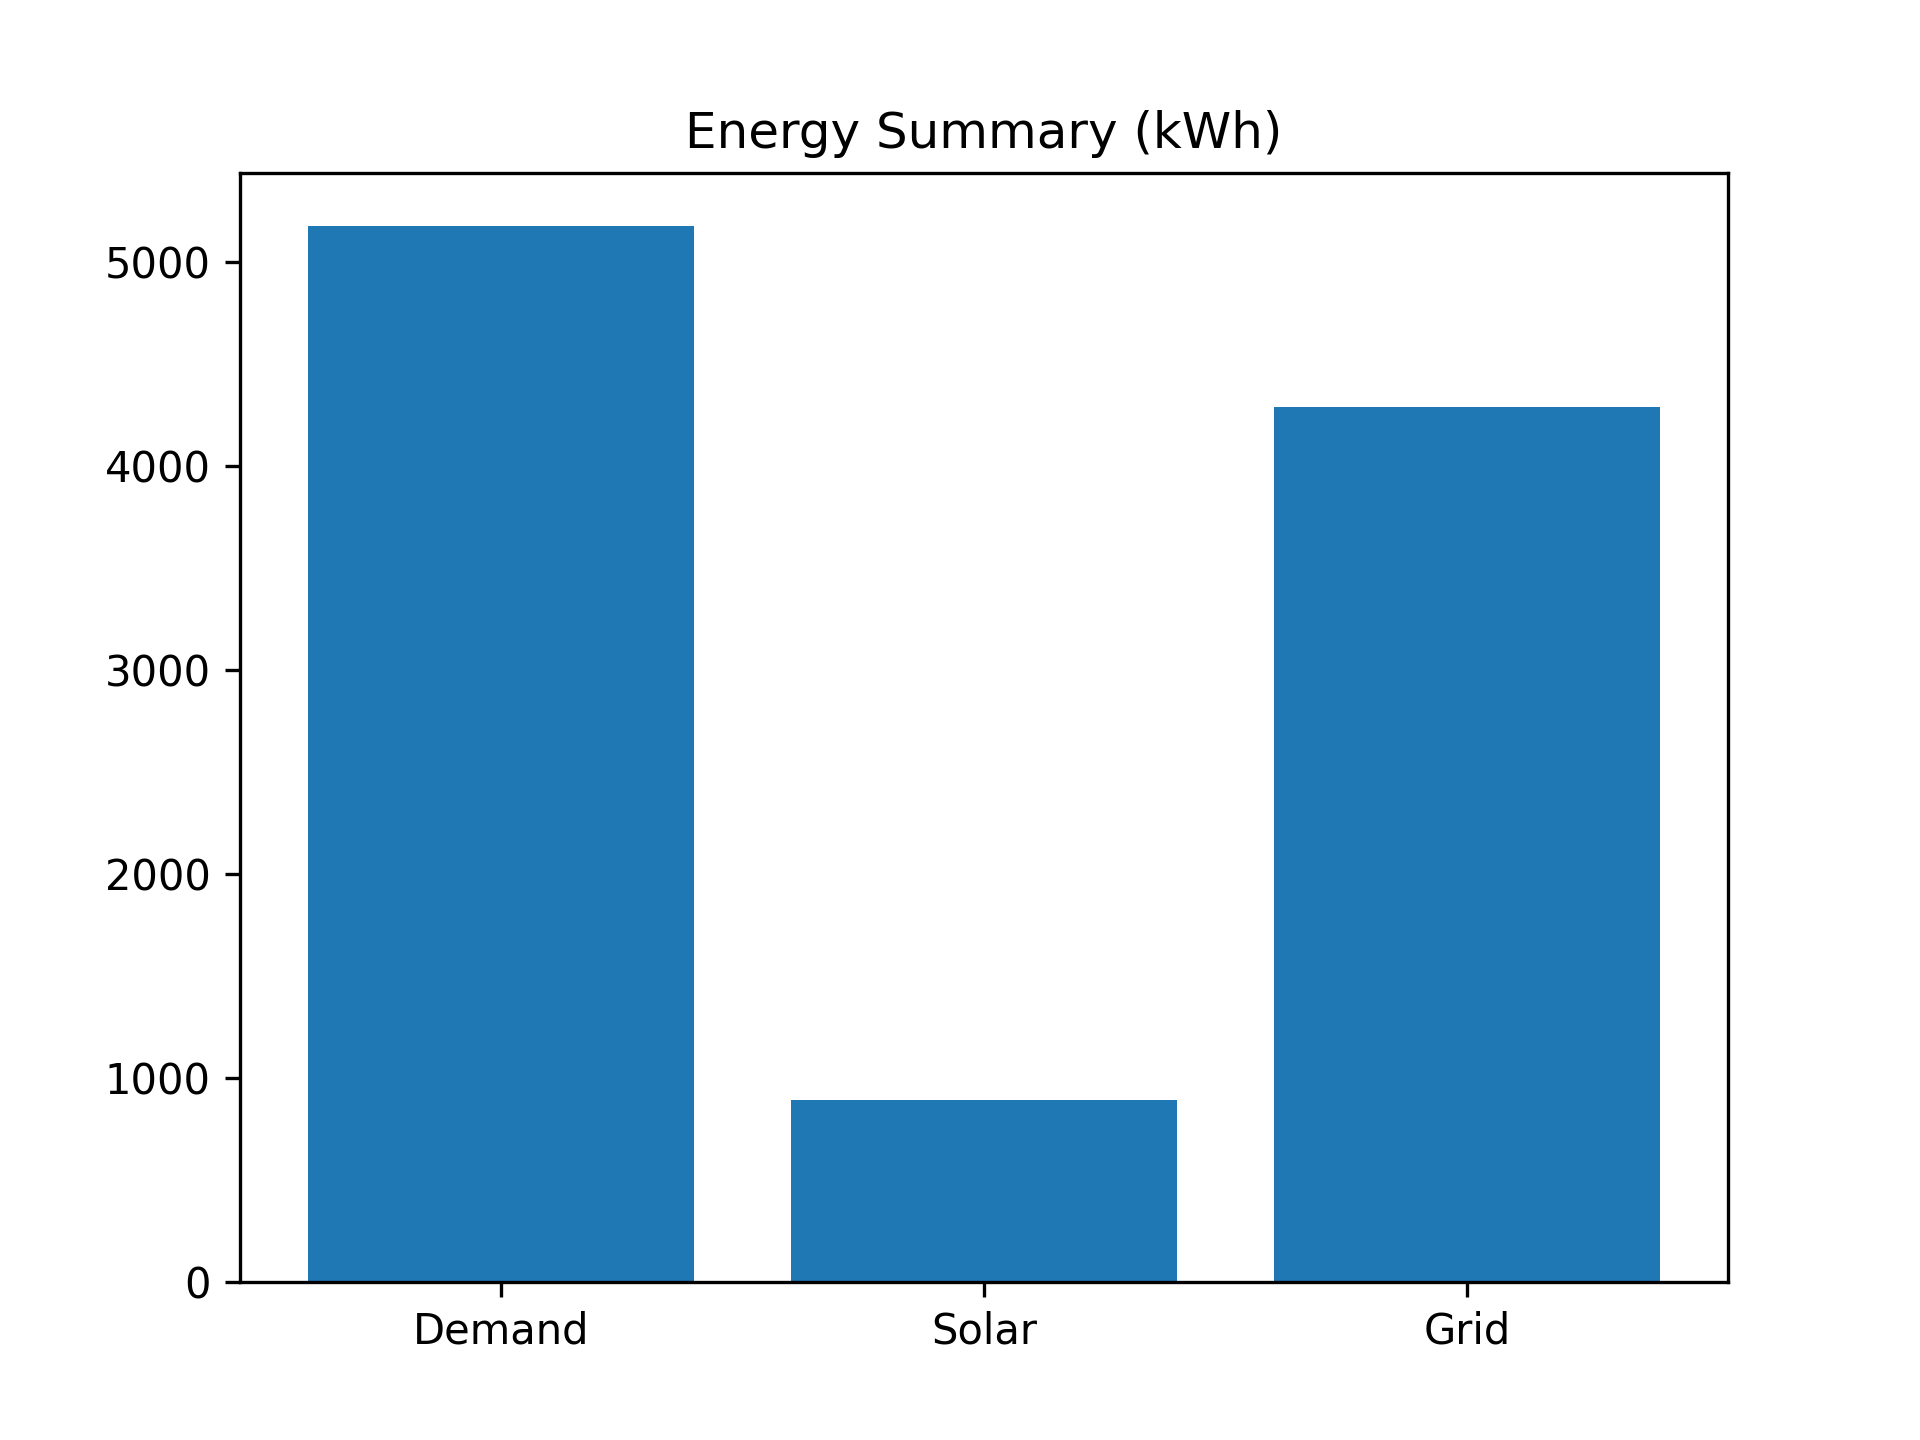
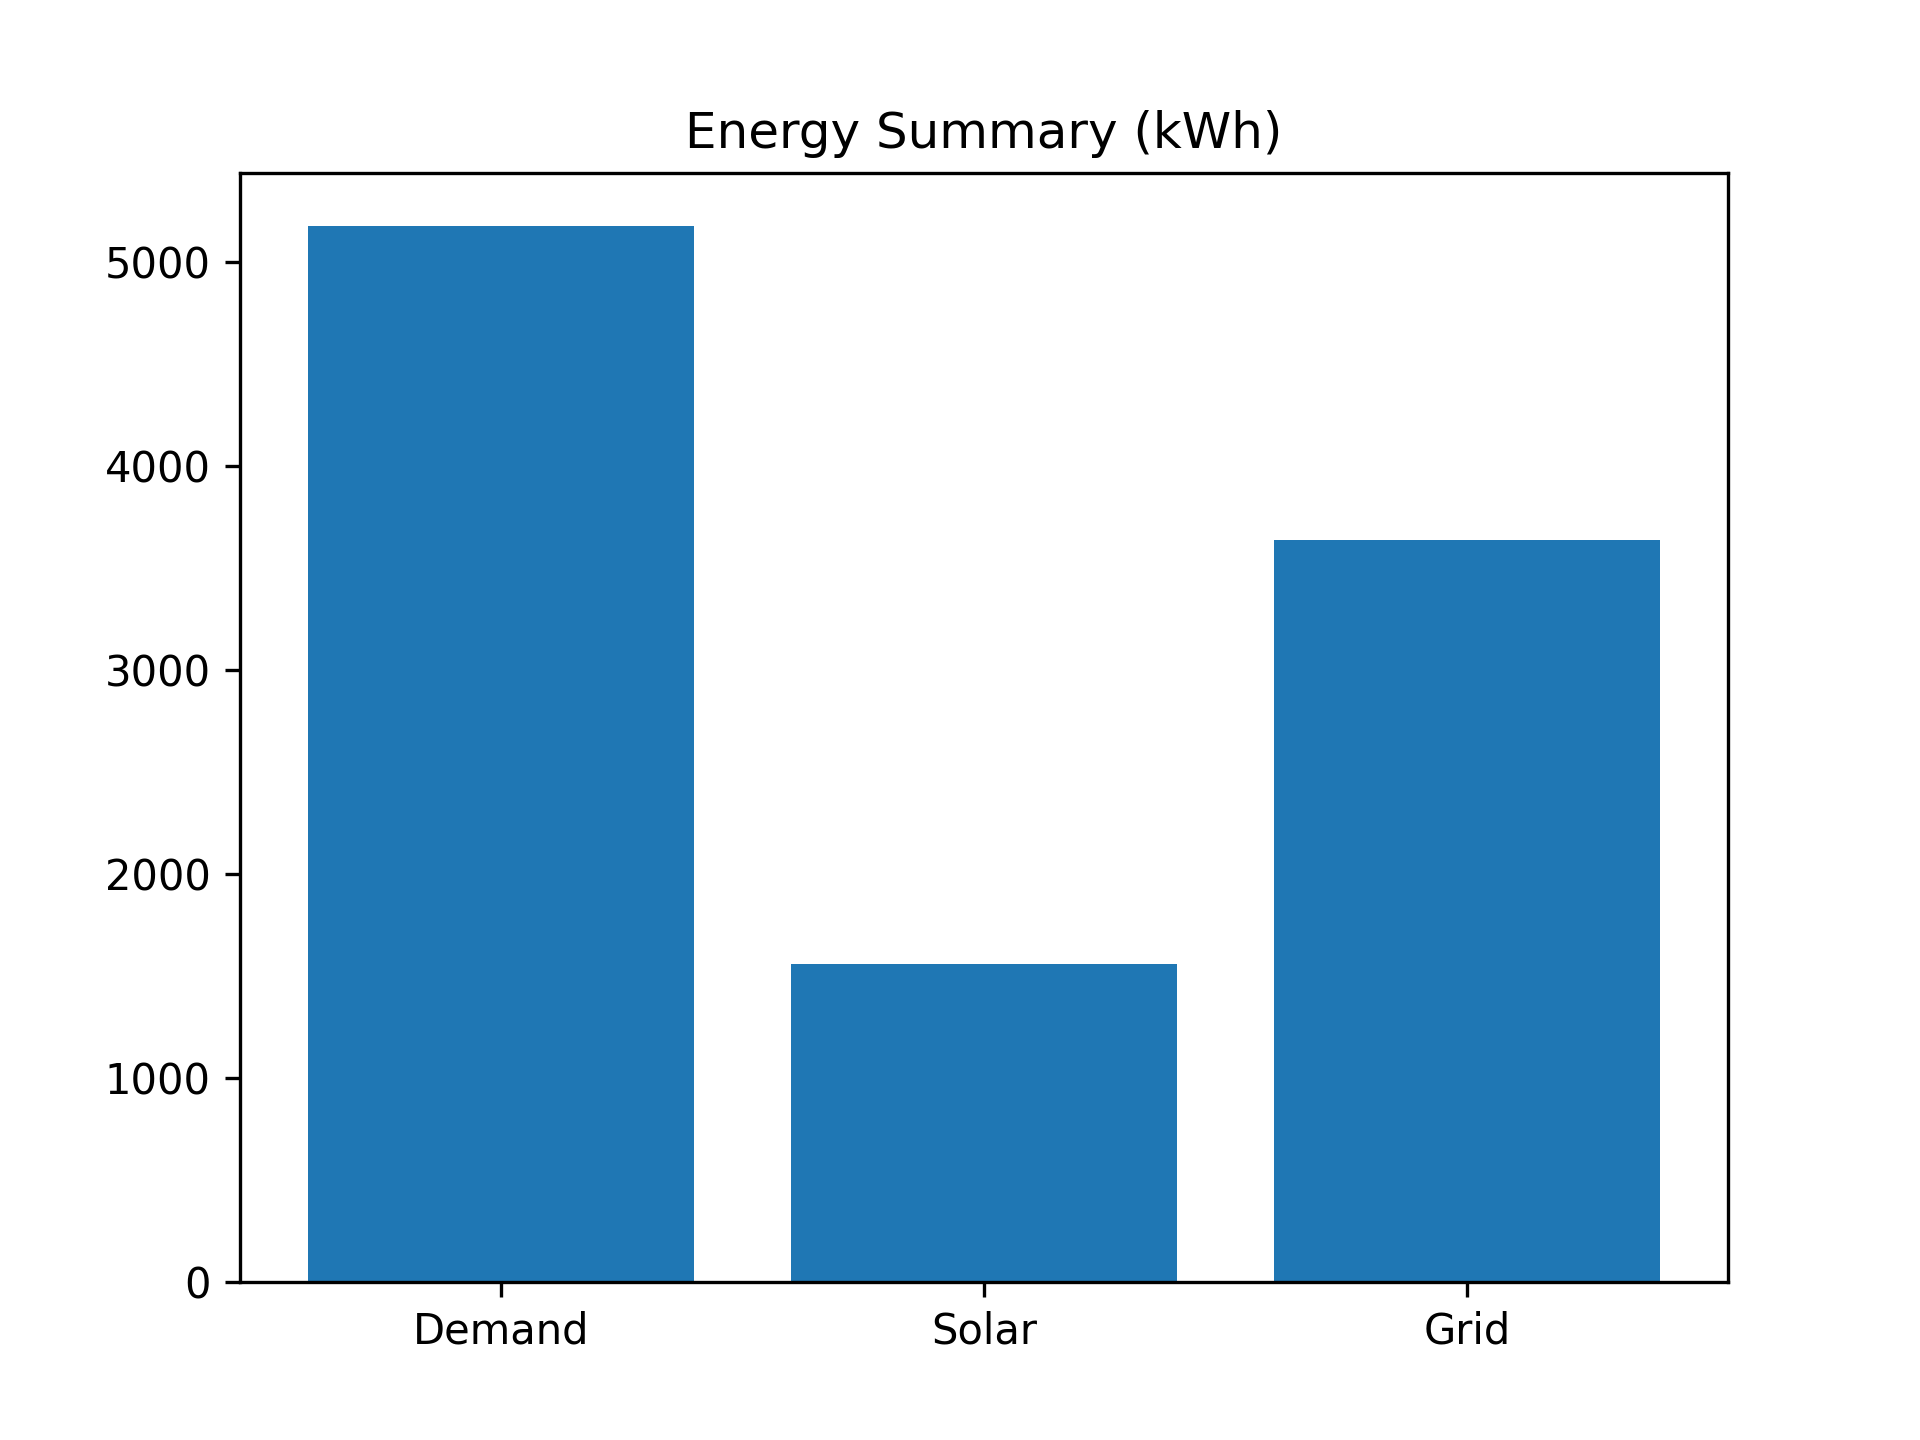
Changes to simulation.py

Changed region(s): [[0.4062, 0.6562, 0.625, 0.7812], [0.6562, 0.2812, 0.875, 0.375]]

diff --git a/simulation.py b/simulation.py
@@ -2,7 +2,7 @@ import numpy as np
 import pandas as pd
 import matplotlib.pyplot as plt
 
-# Load predictions
+
 df = pd.read_csv("predictions.csv", parse_dates=["Datetime"])
 df = df.sort_values("Datetime").reset_index(drop=True)
 
@@ -10,35 +10,24 @@ time = df["Datetime"]
 demand = df["y_pred"].values
 hours = time.dt.hour.values
 
-# Solar bell-curve model
 solar = np.zeros(len(df))
 
-panel_efficiency = 0.20
+panel_efficiency = 0.70
 cloud_variation = 0.3
 peak_irradiance = 1.0
 
-base_peak = 0.8 * demand.max()
-
-# peak solar output (tune this)
-# peak_solar = 0.2 * demand.max()
+base_peak = 0.4 * demand.max()
 
 for i, h in enumerate(hours):
     if 6 <= h <= 18:
         x = (h - 12) / 3.0
         irradiance = np.exp(-0.5 * x**2)
-        # Random cloud factor
         cloud_factor = 1 - np.random.uniform(0, cloud_variation)
         solar[i] = base_peak * irradiance * panel_efficiency * cloud_factor
-        # x = (h - 12) / 3.0     # noon peak
-        # solar[i] = peak_solar * np.exp(-0.5 * x**2)
 
-# Battery simulation
-
-battery_capacity = 5.0   # kWh
+battery_capacity = 5.0
 battery_max_power = 2.0
 round_trip_eff = 0.90
-# soc = battery_capacity / 2   # initial state of charge
-
 charge_eff = np.sqrt(round_trip_eff)
 discharge_eff = np.sqrt(round_trip_eff)
 
@@ -52,7 +41,6 @@ for i in range(len(df)):
 
     surplus = solar[i] - demand[i]
 
-    # Excess solar -> charge battery
     if surplus > 0:
         charge = min(surplus,
                      battery_max_power,
@@ -62,12 +50,6 @@ for i in range(len(df)):
         battery_flow[i] = -charge
         grid[i] = 0
 
-        # charge = min(surplus, battery_capacity - soc)
-        # soc += charge
-        # battery_flow[i] = -charge
-        # grid[i] = 0
-
-    # Deficit -> discharge battery then grid
     else:
         need = -surplus
 
@@ -78,11 +60,6 @@ for i in range(len(df)):
         soc -= discharge
         battery_flow[i] = discharge * discharge_eff
         grid[i] = need - discharge * discharge_eff
-        # need = -surplus
-        # discharge = min(need, soc)
-        # soc -= discharge
-        # battery_flow[i] = discharge
-        # grid[i] = need - discharge
     soc_history[i] = soc
 
 
@@ -92,54 +69,6 @@ from pathlib import Path
 OUTPUT_DIR = Path("outputs")
 OUTPUT_DIR.mkdir(parents=True, exist_ok=True)
 
-
-# ----------------------------
-# PLOTS (3 separate figures)
-# ----------------------------
-
-# plt.figure()
-# plt.plot(time, demand)
-# plt.title("Predicted Demand vs Time")
-# plt.xlabel("Time")
-# plt.ylabel("Power (kW)")
-# plt.show()
-
-# plt.figure()
-# plt.plot(hours, solar)
-# plt.title("Solar Generation vs Time")
-# plt.xlabel("hours")
-# plt.ylabel("Power (kW)")
-# plt.show()
-
-# plt.figure()
-# plt.plot(time, grid)
-# plt.title("Grid Power Needed vs Time")
-# plt.xlabel("Time")
-# plt.ylabel("Power (kW)")
-# plt.show()
-
-# plt.figure()
-# plt.plot(hours, soc_history)
-# plt.title("Battery State of Charge (kWh)")
-# plt.xlabel("Time")
-# plt.ylabel("Energy Stored (kWh)")
-# plt.show()
-
-# plt.figure()
-# plt.plot(time, battery_flow)
-# plt.title("Battery Charge / Discharge")
-# plt.xlabel("Time")
-# plt.ylabel("Power (kW)")
-# plt.show()
-
-# plt.figure()
-# plt.plot(time, demand)
-# plt.plot(time, solar)
-# plt.title("Solar vs Demand")
-# plt.xlabel("Time")
-# plt.ylabel("Power (kW)")
-# plt.legend(["Demand", "Solar"])
-# plt.show()
 
 total_demand = demand.sum()
 total_solar = solar.sum()
@@ -167,24 +96,10 @@ for i, h in enumerate(hours):
 no_solar_cost = np.sum(demand) * grid_price_day
 savings = no_solar_cost - grid_cost
 
-co2_per_kwh = 0.5  # kg CO2 per kWh
-
+co2_per_kwh = 0.5
 co2_without = np.sum(demand) * co2_per_kwh
 co2_with = np.sum(grid) * co2_per_kwh
 co2_saved = co2_without - co2_with
-
-# plt.figure()
-# plt.plot(time, demand)
-# plt.plot(time, solar)
-# plt.title("Demand vs Solar")
-# plt.legend(["Demand", "Solar"])
-# plt.show()
-
-# plt.figure()
-# plt.plot(time, soc_history)
-# plt.title("Battery State of Charge")
-# plt.savefig(OUTPUT_DIR / "batteyr.png", dpi = 300)
-# plt.show()
 
 plt.figure()
 plt.plot(time, grid)
@@ -204,11 +119,8 @@ print("Cost Without Solar: $", round(no_solar_cost,2))
 print("Total Savings: $", round(savings,2))
 print("CO2 Saved (kg):", round(co2_saved,2))
 
-
-# 2. Define the full file path
 file_path = OUTPUT_DIR / "savings.txt"
 
-# 3. Use f-strings to combine text and numbers into a single string for .write()
 with open(file_path, "w", encoding="utf-8") as file:
     file.write(f"Grid Cost With Solar: ${round(grid_cost, 2)}\n")
     file.write(f"Cost Without Solar: ${round(no_solar_cost, 2)}\n")
